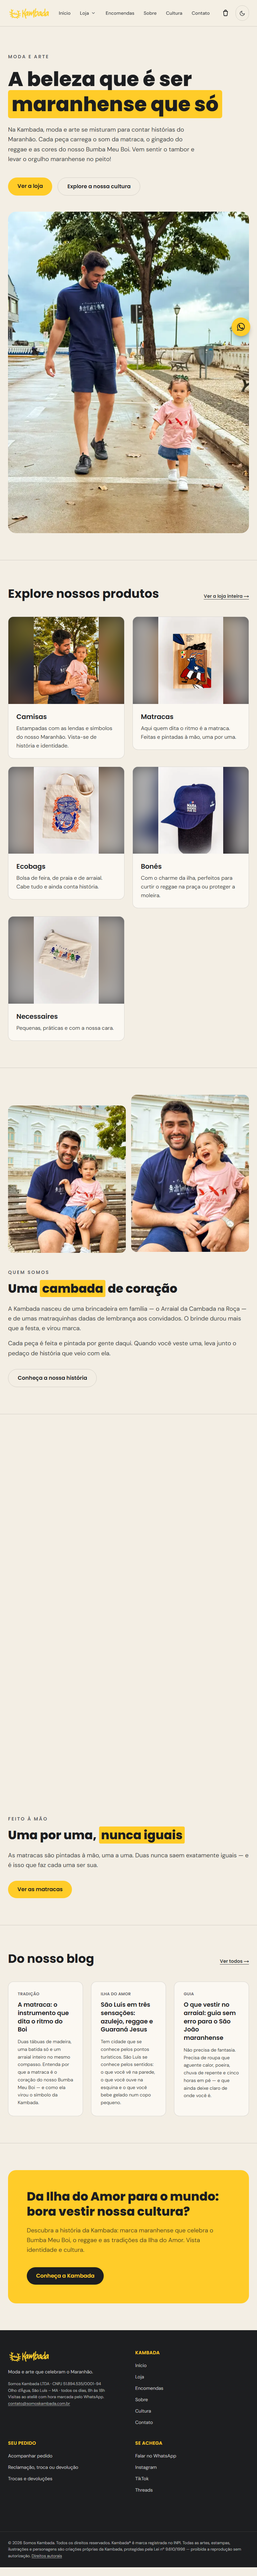
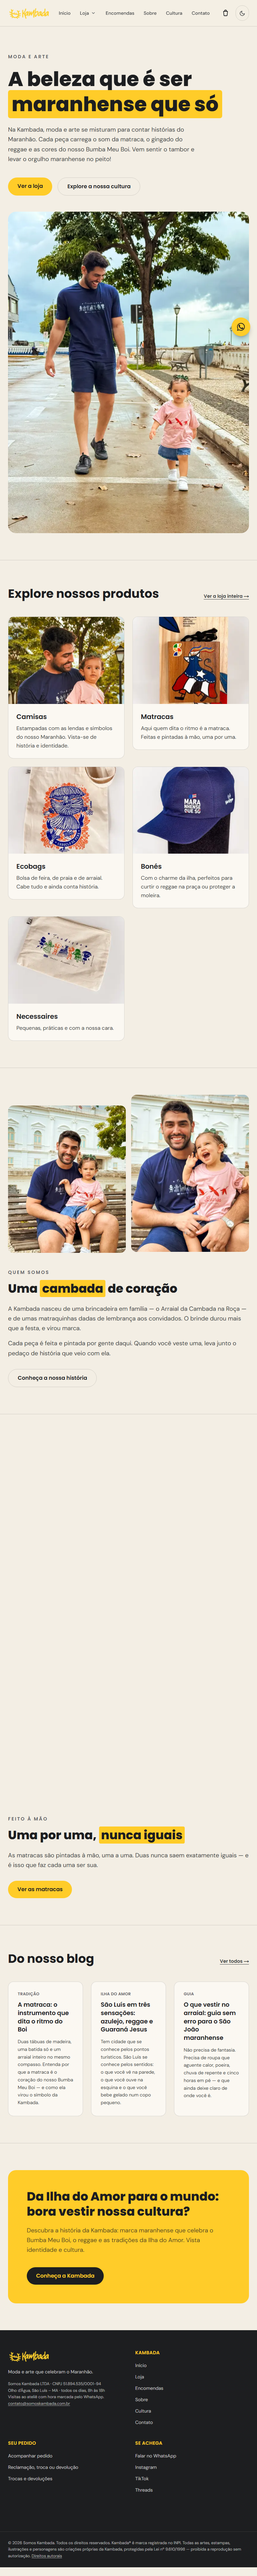
Capa das camisas: foto da família sentada, foco a 30% (cabeça e camisa visíveis)

Changed region(s): [[0.0312, 0.2184, 0.9688, 0.4056]]

diff --git a/src/lib/catalogo.ts b/src/lib/catalogo.ts
@@ -78,9 +78,11 @@ export const CATEGORIAS: Categoria[] = [
     nome: "Camisas",
     chamada:
       "Estampadas com as lendas e símbolos do nosso Maranhão. Vista-se de história e identidade.",
-    foto: FOTOS.camisaIlhaEncantada,
-    // A foto tem o rosto perto do topo: foco alto corta o fim dos dedos, não a cabeça.
-    posicaoDaFoto: "center 18%",
+    // Pai e filha sentados, de camisa: em 2:1 (desktop) e 4:3 (celular) o foco a 30%
+    // mostra cabeça e camisa; o que sai é o joelho, não o rosto. O close do peito
+    // (camisaIlhaEncantada) ficava sem cabeça na capa.
+    foto: FOTOS.familiaSentados,
+    posicaoDaFoto: "center 30%",
   },
   {
     slug: "matracas",
